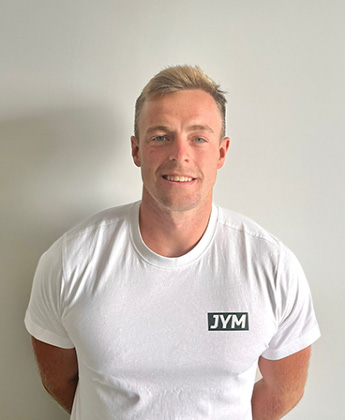
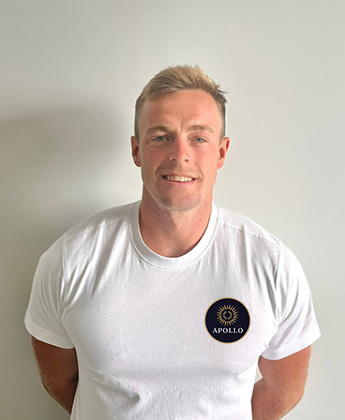
added photoshoped team images

Changed region(s): [[0.5797, 0.681, 0.7246, 0.8357]]

diff --git a/pages/about/index.html b/pages/about/index.html
@@ -346,17 +346,17 @@
         <p class="role">Operations Director</p>
       </div>
       <div class="meet-the-team__person">
-        <img src="/img/about/jamie.jpg" alt="Luke - Head of Electrical" loading="lazy">
+        <img src="/img/about/no-photo.jpg" alt="Luke - Head of Electrical" loading="lazy">
         <p class="name">Luke</p>
-        <p class="role">Head of Electrical</p>
+        <p class="role">Head of Renewables</p>
       </div>
       <div class="meet-the-team__person">
-        <img src="/img/about/jamie.jpg" alt="Nathan - Sales Director" loading="lazy">
+        <img src="/img/about/nathan-s.jpg" alt="Nathan - Sales Director" loading="lazy">
         <p class="name">Nathan</p>
         <p class="role">Sales Director</p>
       </div>
       <div class="meet-the-team__person">
-        <img src="/img/about/jamie.jpg" alt="Rich - Technical Director" loading="lazy">
+        <img src="/img/about/no-photo.jpg" alt="Rich - Technical Director" loading="lazy">
         <p class="name">Rich</p>
         <p class="role">Technical Director</p>
       </div>
@@ -366,67 +366,67 @@
         <p class="role">Digital & Marketing</p>
       </div>
       <div class="meet-the-team__person">
-        <img src="/img/about/jamie.jpg" alt="Qian - Financial Administrator" loading="lazy">
+        <img src="/img/about/no-photo.jpg" alt="Qian - Financial Administrator" loading="lazy">
         <p class="name">Qian</p>
         <p class="role">Financial Administrator</p>
       </div>
       <div class="meet-the-team__person">
-        <img src="/img/about/jamie.jpg" alt="Charlie - Head of Commercial" loading="lazy">
+        <img src="/img/about/charlie-h.jpg" alt="Charlie - Head of Commercial" loading="lazy">
         <p class="name">Charlie</p>
         <p class="role">Head of Commercial</p>
       </div>
       <div class="meet-the-team__person">
-        <img src="/img/about/jamie.jpg" alt="Arthur - Head of Franchise" loading="lazy">
+        <img src="/img/about/arthur.jpg" alt="Arthur - Head of Franchise" loading="lazy">
         <p class="name">Arthur</p>
         <p class="role">Head of Franchise</p>
       </div>
       <div class="meet-the-team__person">
-        <img src="/img/about/jamie.jpg" alt="James S - Solar PV Team Leader" loading="lazy">
+        <img src="/img/about/james-s.jpg" alt="James S - Solar PV Team Leader" loading="lazy">
         <p class="name">James S</p>
         <p class="role">Solar PV Team Leader</p>
       </div>
       <div class="meet-the-team__person">
-        <img src="/img/about/jamie.jpg" alt="Will - Solar PV Team Leader" loading="lazy">
+        <img src="/img/about/will.jpg" alt="Will - Solar PV Team Leader" loading="lazy">
         <p class="name">Will</p>
         <p class="role">Solar PV Team Leader</p>
       </div>
       <div class="meet-the-team__person">
-        <img src="/img/about/jamie.jpg" alt="Mike - Solar PV Team Leader" loading="lazy">
+        <img src="/img/about/no-photo.jpg" alt="Mike - Solar PV Team Leader" loading="lazy">
         <p class="name">Mike</p>
         <p class="role">Solar PV Team Leader</p>
       </div>
       <div class="meet-the-team__person">
-        <img src="/img/about/jamie.jpg" alt="Goulden - Roofing/Electrics" loading="lazy">
+        <img src="/img/about/goulden.jpg" alt="Goulden - Roofing/Electrics" loading="lazy">
         <p class="name">Goulden</p>
         <p class="role">Roofing/Electrics</p>
       </div>
       <div class="meet-the-team__person">
-        <img src="/img/about/jamie.jpg" alt="McKenna - Solar PV/Electrics" loading="lazy">
+        <img src="/img/about/no-photo.jpg" alt="McKenna - Solar PV/Electrics" loading="lazy">
         <p class="name">McKenna</p>
         <p class="role">Solar PV/Electrics</p>
       </div>
       <div class="meet-the-team__person">
-        <img src="/img/about/jamie.jpg" alt="Josh - Roofing" loading="lazy">
+        <img src="/img/about/josh.jpg" alt="Josh - Roofing" loading="lazy">
         <p class="name">Josh</p>
         <p class="role">Roofing</p>
       </div>
       <div class="meet-the-team__person">
-        <img src="/img/about/jamie.jpg" alt="Isaac - Roofing" loading="lazy">
+        <img src="/img/about/isaac.jpg" alt="Isaac - Roofing" loading="lazy">
         <p class="name">Isaac</p>
         <p class="role">Roofing</p>
       </div>
       <div class="meet-the-team__person">
-        <img src="/img/about/jamie.jpg" alt="Mannix - Electrician/Solar PV/Ventilation" loading="lazy">
+        <img src="/img/about/no-photo.jpg" alt="Mannix - Electrician/Solar PV/Ventilation" loading="lazy">
         <p class="name">Mannix</p>
         <p class="role">Electrician/Solar PV/Ventilation</p>
       </div>
       <div class="meet-the-team__person">
-        <img src="/img/about/jamie.jpg" alt="Joe - Electrical Apprentice" loading="lazy">
+        <img src="/img/about/joe.jpg" alt="Joe - Electrical Apprentice" loading="lazy">
         <p class="name">Joe</p>
         <p class="role">Electrical Apprentice</p>
       </div>
       <div class="meet-the-team__person">
-        <img src="/img/about/jamie.jpg" alt="Emily - Administrator" loading="lazy">
+        <img src="/img/about/no-photo.jpg" alt="Emily - Administrator" loading="lazy">
         <p class="name">Emily</p>
         <p class="role">Administrator</p>
       </div>
